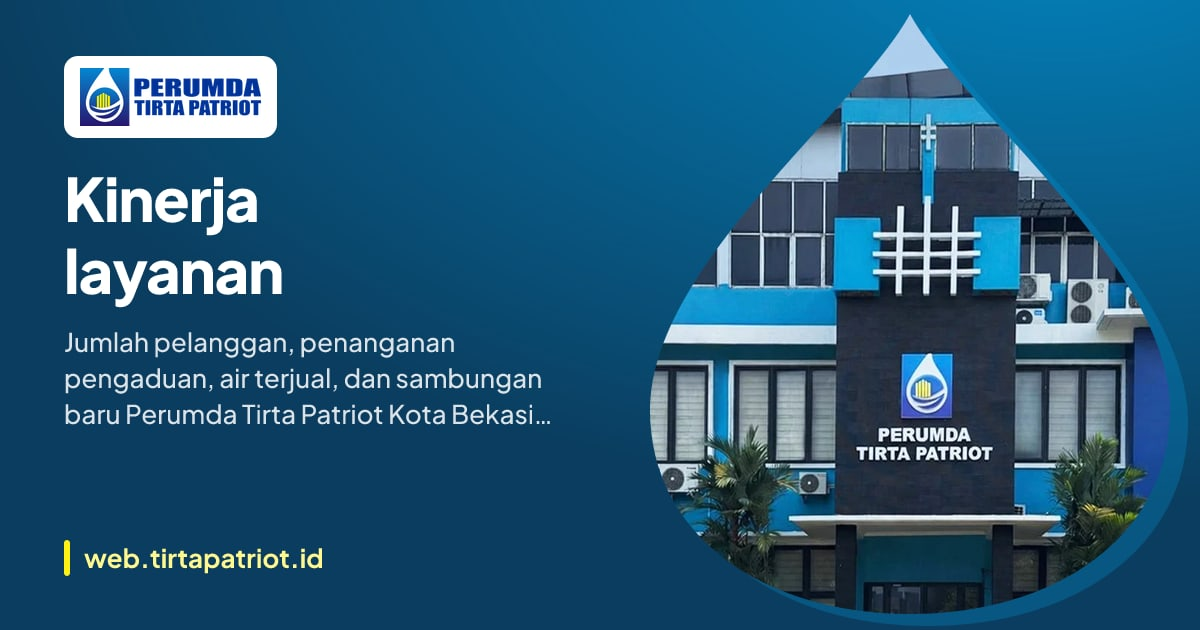
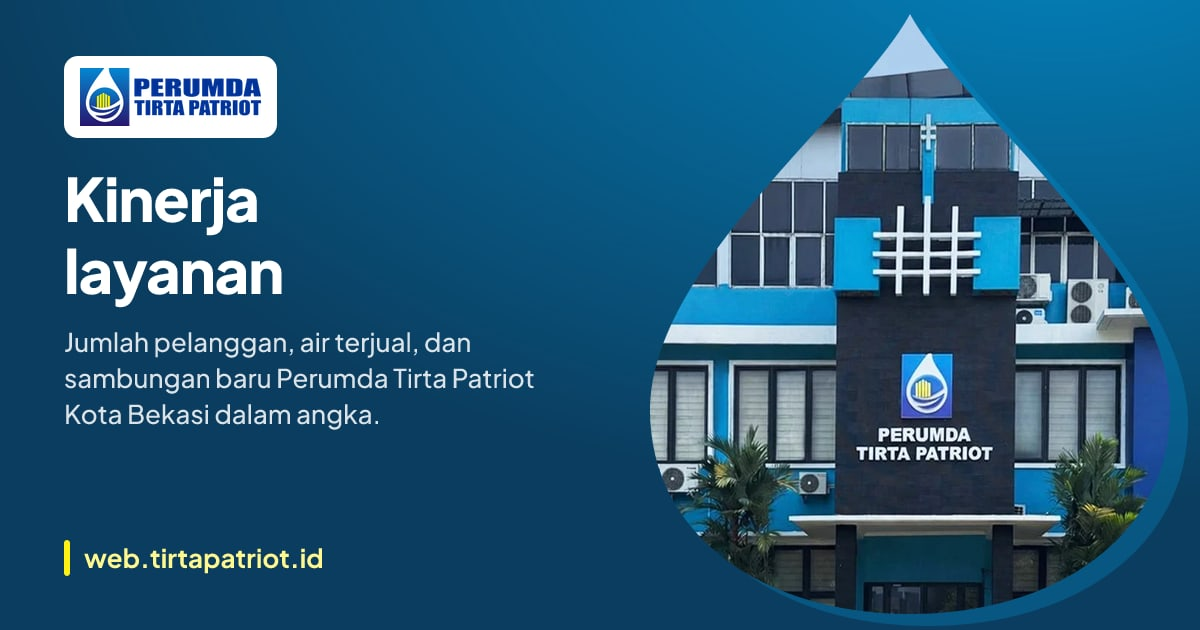
Sembunyikan sementara bagian Penanganan pengaduan di Kinerja layanan
Bagian dikendalikan konstanta tampilkanPengaduan (false); data tetap di kinerja.json.
Deskripsi halaman, entri pencarian, dan kartu OG tidak lagi menyebut pengaduan.

Claude-Session: https://claude.ai/code/session_01UugmTGX82SYRjgUUArYJMm

Changed region(s): [[0.0308, 0.5127, 0.4625, 0.6937]]

diff --git a/src/lib/cari.ts b/src/lib/cari.ts
@@ -32,7 +32,7 @@ export const MENU: Entri[] = [
   { judul: 'Gangguan layanan', ringkasan: 'Pekerjaan perbaikan dan gangguan aliran air yang sedang ditangani.', url: '/informasi/gangguan-layanan', kata: 'air mati tidak mengalir pemadaman perbaikan' },
   { judul: 'Tempat pembayaran', ringkasan: 'Bank, mitra, virtual account, dan loket kantor untuk membayar rekening air.', url: '/informasi/tempat-pembayaran', kata: 'bayar loket bank virtual account minimarket' },
   { judul: 'Peta layanan', ringkasan: 'Jaringan pipa, zona layanan, dan lokasi kantor pelayanan.', url: '/informasi/peta-layanan', kata: 'wilayah zona jaringan pipa kecamatan' },
-  { judul: 'Kinerja layanan', ringkasan: 'Jumlah pelanggan, penanganan pengaduan, air terjual, dan sambungan baru dalam angka.', url: '/informasi/kinerja-layanan', kata: 'statistik data angka' },
+  { judul: 'Kinerja layanan', ringkasan: 'Jumlah pelanggan, air terjual, dan sambungan baru dalam angka.', url: '/informasi/kinerja-layanan', kata: 'statistik data angka' },
   { judul: 'Berita', ringkasan: 'Kabar kegiatan, kerja sama, dan pengumuman resmi.', url: '/berita', kata: 'kabar pengumuman' },
   { judul: 'Edukasi', ringkasan: 'Panduan menghemat air, merawat instalasi, dan memahami rekening air.', url: '/edukasi', kata: 'tips panduan hemat air' },
   { judul: 'Kebijakan privasi dan ketentuan layanan', ringkasan: 'Kebijakan privasi dan ketentuan layanan digital.', url: '/informasi/privacy-policy', kata: 'privacy policy syarat ketentuan data pribadi' },
